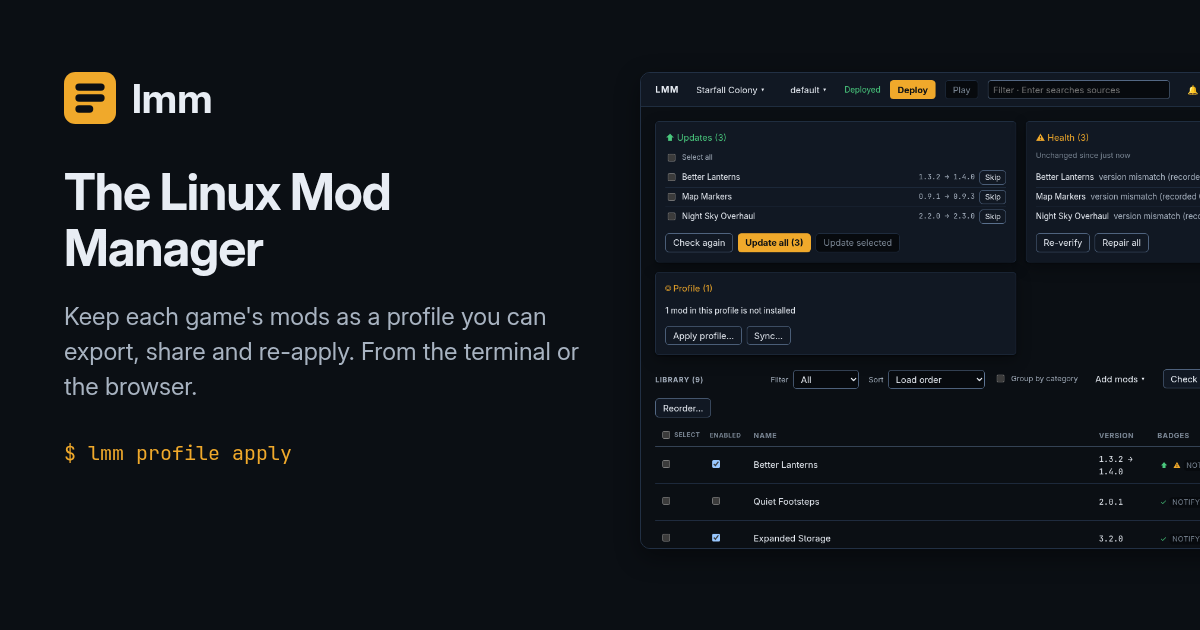
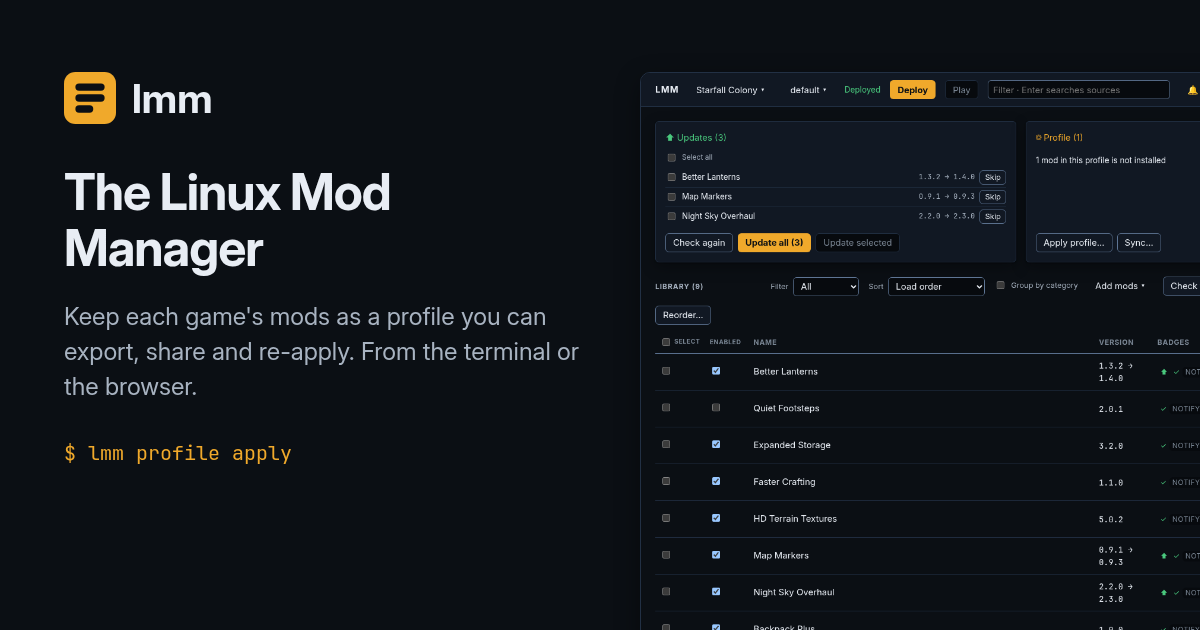
docs(site): tighten landing copy and refresh demo screenshots (#625)

diff --git a/docs/site/index.html b/docs/site/index.html
@@ -52,56 +52,40 @@
 
 <section class="hero" aria-labelledby="hero-title">
   <div class="wrap">
-    <p class="eyebrow">lmm, the Linux Mod Manager</p>
-    <h1 id="hero-title">Mod your games on Linux from a profile you can share and re-apply</h1>
-    <p class="lede">lmm is a native Linux mod manager. It downloads mods from NexusMods, CurseForge, Thunderstore and the Steam Workshop, puts them in the game folder, and records every file it adds. Because it knows exactly what it added, it can update a mod, roll it back or take it out again without touching the game's own files.</p>
-    <p class="lede">Use it from the terminal, or from the web UI it opens in your browser. Both run the same engine.</p>
+    <p class="eyebrow">lmm · Linux Mod Manager</p>
+    <h1 id="hero-title">Your mod setup, ready to re-apply.</h1>
+    <p class="lede">Manage your Linux game mods from the terminal or a full local web UI. Keep your mods, versions and load order in a profile you can save and apply again.</p>
     <div class="actions">
       <a class="button button--primary" href="#install">Install lmm</a>
       <a class="button" href="guide/">Read the guide</a>
-      <a class="button" href="https://github.com/DonovanMods/linux-mod-manager">View on GitHub</a>
     </div>
     <p class="fineprint">Free and open source under the MIT license. One binary for x86-64 and ARM64 Linux.</p>
     <figure class="shot shot--hero">
       <picture>
         <source srcset="images/mission-control-dark.png" media="(prefers-color-scheme: dark)">
-        <img src="images/mission-control-light.png" width="1280" height="800" alt="lmm's web UI on its Mission Control screen. Cards at the top list three mod updates, three health findings and a Profile card offering Apply profile; below them is the library of nine installed mods with their versions and load order." fetchpriority="high">
+        <img src="images/mission-control-light.png" width="1280" height="1048" alt="lmm's Mission Control screen with three available mod updates and one profile mod still to install. The library lists nine installed mods with healthy checkmarks, versions and load order." fetchpriority="high">
       </picture>
       <figcaption>Mission Control, the web UI's home screen. The game and mods are demo data.</figcaption>
     </figure>
   </div>
 </section>
 
-<section class="band" aria-labelledby="who-title">
-  <div class="wrap prose">
-    <h2 id="who-title">For Linux players who mod their games</h2>
-    <p>If you mod games on Linux today, you probably run a Windows mod manager under Wine, or unzip archives into the game folder and try to remember what went where. Then updating a mod, removing one, or setting up the same mods on a second computer is work you do by hand.</p>
-    <p>lmm runs natively on Linux. It finds your Steam games, and Battle.net games installed under Wine or Proton. For the games it already knows, such as Skyrim, Baldur's Gate 3 and Valheim, it fills in where the mods go. If you've modded a game before, lmm can scan its mod folder and take over the mods already there.</p>
-  </div>
-</section>
-
 <section id="profiles" class="feature" aria-labelledby="profiles-title">
   <div class="wrap feature__grid">
     <div class="prose">
-      <h2 id="profiles-title">Your mod setup is a file, and lmm makes the game match it</h2>
-      <p>A profile lists the mods a game should be running: which ones, which versions and in what order they load. <code>lmm profile apply</code> changes the game to match it. It installs what's missing, takes out what the profile no longer lists, and moves each mod to the version the profile names, even when that is an older one.</p>
-      <p>Lock a mod to one version and the lock holds through apply, deploy, update and rollback. Export a profile to a small YAML file to keep as a backup or send to a friend. Importing it on another computer downloads and installs the same mods at the same versions.</p>
-      <p>A game can have several profiles, such as a co-op setup that matches your friends' mods next to your solo game. Switching between them leaves the mods both use in place, and nothing lmm already has is downloaded again.</p>
-<pre class="code" tabindex="0"><code><span class="prompt">$</span> lmm profile export coop &gt; coop.yaml
-<span class="prompt">$</span> lmm profile import coop.yaml
-<span class="prompt">$</span> lmm profile apply --dry-run
-Apply plan for profile "default" (dry run)
-
-Will install 2 mod(s):
-  ↓ mod-workshop:BetterLanterns v1.4.0
-  ↓ mod-workshop:WildlifeAI v0.7.0</code></pre>
+      <h2 id="profiles-title">Save a setup. Make the game match it.</h2>
+      <p>A profile records your mods, versions and load order. Applying it installs what's missing, removes mods it no longer lists, and changes versions in either direction. Version locks stay enforced.</p>
+      <p>Keep separate profiles for solo and co-op play. Switch between them using the mod files lmm already has in its cache.</p>
+      <p>Export a profile as YAML to save or share the setup. Another computer can fetch the same versions when its sources are configured and those files are still available. Keep local mod archives and custom-source configuration separately: the profile doesn't include them. <a href="guide/profiles.html">How profiles work</a>.</p>
+<pre class="code" tabindex="0"><code><span class="prompt">$</span> lmm profile export default &gt; setup.yaml
+<span class="prompt">$</span> lmm profile apply --dry-run</code></pre>
     </div>
     <figure class="shot">
       <picture>
         <source srcset="images/profile-apply-dark.png" media="(prefers-color-scheme: dark)">
-        <img src="images/profile-apply-light.png" width="1280" height="800" alt="The Apply profile preview in the web UI. It reads &quot;Making default match what it lists&quot; and lists two installs: Better Lanterns 1.4.0, replacing 1.3.2, and Smarter Wildlife 0.7.0, with Cancel and Apply profile buttons.">
+        <img src="images/profile-apply-light.png" width="536" height="316" alt="The Apply profile preview in the web UI. It reads &quot;Making default match what it lists&quot; and lists two installs: Better Lanterns 1.4.0, replacing 1.3.2, and Smarter Wildlife 0.7.0, with Cancel and Apply profile buttons.">
       </picture>
-      <figcaption>The same apply in the web UI. Nothing changes until you confirm the preview.</figcaption>
+      <figcaption>Review a profile's changes before applying them. Shown with demo mods.</figcaption>
     </figure>
   </div>
 </section>
@@ -110,14 +94,13 @@ Will install 2 mod(s):
   <div class="wrap feature__grid feature__grid--flip">
     <div class="prose">
       <h2 id="frontends-title">A terminal and a browser, one engine</h2>
-      <p>Run <code>lmm serve</code> and your browser opens on lmm's web UI: your library, search, updates, health checks, file conflicts, profiles and snapshots.</p>
-      <p>Everything the web UI does is also an <code>lmm</code> command, because both run the same code in the same binary, on the same database and profiles. Use the browser day to day. Use the terminal for scripts, or over SSH on another machine.</p>
-      <p>By default the web UI listens on <code>127.0.0.1</code>, so nothing else on your network can reach it. It can also run in the background as a systemd user service.</p>
+      <p>Browse your library, find mods and manage updates in the web UI. Use the CLI for scripts or over SSH. Both use the same engine, database and profiles.</p>
+      <p>Run <code>lmm serve</code> to open the UI in your browser. It listens on your computer's loopback address by default, and can run as a systemd user service. <a href="guide/background.html">Run lmm in the background</a>.</p>
     </div>
     <figure class="shot">
       <picture>
         <source srcset="images/library-dark.png" media="(prefers-color-scheme: dark)">
-        <img src="images/library-light.png" width="1280" height="800" alt="The web UI's library grouped by category: Audio, Crafting, Interface, Lighting and Storage, each listing its mods with version, update badges, load order and the date each was updated. Two mods show an Update button.">
+        <img src="images/library-light.png" width="1280" height="960" alt="The web UI's nine-mod library grouped into Audio, Crafting, Interface, Lighting, Storage and Visuals. Rows show versions, healthy checkmarks and load order; three mods have Update buttons.">
       </picture>
       <figcaption>The library, grouped by category. Grouping never changes the load order.</figcaption>
     </figure>
@@ -126,15 +109,16 @@ Will install 2 mod(s):
 
 <section class="band" aria-labelledby="sources-title">
   <div class="wrap">
-    <h2 id="sources-title">Mods from the sites you already use, and from your own</h2>
+    <h2 id="sources-title">Bring your games and your mod sources</h2>
+    <p class="section-lede prose">lmm finds Steam games and Battle.net installations under Wine or Proton, and fills in mod paths for known games. Already modded a game? Scan its mod folder to bring existing mods into lmm. <a href="guide/first-mods.html">Get started with your games</a>.</p>
     <ul class="cards">
       <li class="card">
         <h3>NexusMods and CurseForge</h3>
-        <p>Sign in with an API key from your account page. lmm stores it encrypted on your computer and only ever sends it to that site.</p>
+        <p>Connect with an API key, stored encrypted on your computer. Free NexusMods accounts can import manually downloaded archives.</p>
       </li>
       <li class="card">
         <h3>Thunderstore</h3>
-        <p>Needs no key. For Unity games that load mods through BepInEx, such as Valheim and Lethal Company, lmm puts each plugin where the loader looks for it, whichever site it came from.</p>
+        <p>Browse without an API key. For BepInEx games such as Valheim and Lethal Company, lmm puts plugins where the loader expects them.</p>
       </li>
       <li class="card">
         <h3>Steam Workshop</h3>
@@ -158,56 +142,50 @@ Will install 2 mod(s):
 
 <section class="feature" aria-labelledby="safety-title">
   <div class="wrap prose prose--wide">
-    <h2 id="safety-title">See every change first, and undo it later</h2>
+    <h2 id="safety-title">Preview changes and keep a way back</h2>
     <dl class="facts">
       <div>
-        <dt>A preview before anything changes</dt>
-        <dd>The web UI shows the plan and waits for you to confirm it. In the terminal, commands that change things take <code>--dry-run</code>.</dd>
+        <dt>Review installs, updates and profile changes</dt>
+        <dd>The web UI shows a plan before installing, updating, deploying or applying a profile. In the CLI, <code>update</code>, <code>deploy</code> and <code>profile apply</code> support <code>--dry-run</code>. Enabling or disabling a mod applies immediately.</dd>
       </div>
       <div>
         <dt>Back to an unmodded game</dt>
-        <dd><code>lmm purge</code> puts the game folder back the way it was before lmm touched it. When a mod replaced one of the game's own files, lmm kept the original and puts it back.</dd>
+        <dd><code>lmm purge</code> removes deployed mods and restores originals backed up when lmm replaced game files.</dd>
       </div>
       <div>
         <dt>Snapshots and rollback</dt>
-        <dd>Save a snapshot to bring the game back to later. <code>lmm update rollback</code> steps a mod back to its previous version.</dd>
+        <dd>Save a snapshot of your mod setup before experimenting. <code>lmm update rollback</code> can return a mod to its previous version.</dd>
       </div>
       <div>
         <dt>Verify what's on disk</dt>
-        <dd><code>lmm verify</code> checks downloaded files against their recorded checksums, and the game folder against what the profile provides. <code>--fix</code> only ever removes files lmm itself put there.</dd>
-      </div>
-      <div>
-        <dt>File conflicts</dt>
-        <dd><code>lmm conflicts</code> lists every file two mods both provide, which mods they are, and which one wins.</dd>
+        <dd><code>lmm verify</code> checks cached files and the deployed mod files. <code>lmm conflicts</code> shows which mods provide the same file and which one wins.</dd>
       </div>
     </dl>
+    <p class="section-followup"><a href="guide/troubleshooting.html">Previews, snapshots and recovery in the guide</a></p>
   </div>
 </section>
 
-<section class="feature feature--alt" aria-labelledby="json-title">
-  <div class="wrap prose prose--wide">
-    <h2 id="json-title">Add <code>--json</code> for scripts</h2>
-    <p>Add <code>--json</code> and a command prints exactly one JSON document on standard output. Warnings go inside the document, so piping it to <code>jq</code> is always safe. The web UI's <code>/api/v1</code> returns the same documents.</p>
-<pre class="code" tabindex="0"><code><span class="prompt">$</span> lmm update --json | jq -r '.updates[] | "\(.installed_mod.name): \(.installed_mod.version) -&gt; \(.new_version)"'
-Better Lanterns: 1.3.2 -&gt; 1.4.0
-Map Markers: 0.9.1 -&gt; 0.9.3
-Night Sky Overhaul: 2.2.0 -&gt; 2.3.0</code></pre>
-  </div>
-</section>
-
-<section class="feature" aria-labelledby="updates-title">
-  <div class="wrap prose prose--wide">
-    <h2 id="updates-title">lmm keeps itself up to date, and checks the signature first</h2>
-    <p>Once a day lmm asks GitHub whether a new release is out. If you installed it from the release download or with <code>go install</code>, it installs the new version itself. First it checks the release's ed25519 signature against the keys built into lmm, then the download against its checksum. Anything that doesn't match is refused. Set <code>auto_update: false</code>, or use Setup → Updates in the web UI, to turn this off.</p>
-    <p>An lmm your package manager installed is never replaced by lmm. It tells you a new version is out and leaves the upgrade to your package manager.</p>
+<section class="band" aria-labelledby="everyday-title">
+  <div class="wrap">
+    <h2 id="everyday-title">Fits the way you use Linux</h2>
+    <div class="details-grid">
+      <div class="prose">
+        <h3>Ready for scripts</h3>
+        <p>Add <code>--json</code> for structured command output, with warnings inside the document. Use it with <code>jq</code> or your own tools. <a href="https://github.com/DonovanMods/linux-mod-manager#json-output">JSON output reference</a>.</p>
+<pre class="code" tabindex="0"><code><span class="prompt">$</span> lmm update --json | jq '.updates'</code></pre>
+      </div>
+      <div class="prose">
+        <h3>Verified self-updates</h3>
+        <p>Release-download and <code>go install</code> installations can update automatically after signature and checksum verification. You can turn this off. Package installations stay under your package manager's control. <a href="guide/updates.html">How updates work</a>.</p>
+      </div>
+    </div>
   </div>
 </section>
 
 <section class="band" aria-labelledby="limits-title">
   <div class="wrap prose prose--wide">
-    <h2 id="limits-title">What lmm doesn't do yet</h2>
-    <p>lmm installs, deploys, updates, locks and reproduces Skyrim and Fallout mods. It can't yet walk you through a FOMOD installer's options, sort plugins automatically the way LOOT does, or import a Nexus Collection. All three are tracked as work (<a href="https://github.com/DonovanMods/linux-mod-manager/issues/354">#354</a>, <a href="https://github.com/DonovanMods/linux-mod-manager/issues/355">#355</a>, <a href="https://github.com/DonovanMods/linux-mod-manager/issues/597">#597</a>). If your setup depends on them, <a href="https://github.com/limo-app/limo">Limo</a> or Mosaic serves it better for now. A profile does record load order, and you can change it in the terminal or the web UI.</p>
-    <p>The web UI is built for a desktop browser. On a phone, use the terminal over SSH.</p>
+    <h2 id="limits-title">Check that lmm fits your setup</h2>
+    <p>FOMOD installer options, automatic LOOT-style plugin sorting and Nexus Collections aren't supported yet. You can set load order yourself. The web UI is designed for desktop browsers. <a href="guide/faq.html">Check the compatibility FAQ</a>.</p>
   </div>
 </section>
 
@@ -249,7 +227,7 @@ mkdir -p ~/.local/bin &amp;&amp; mv lmm ~/.local/bin/</code></pre>
       </article>
     </div>
     <div class="next">
-      <p>Then run <code>lmm serve</code> and follow the setup in your browser, or <code>lmm init</code> for the same steps in the terminal. The guide walks you through it. If you change your mind, <code>lmm purge</code> puts the game folder back the way it was.</p>
+      <p>Then run <code>lmm serve</code> and follow the setup in your browser, or <code>lmm init</code> in the terminal. The guide walks you through adding a game and installing your first mods.</p>
       <div class="actions">
         <a class="button button--primary" href="guide/first-mods.html">Set up your first mods</a>
         <a class="button" href="https://github.com/DonovanMods/linux-mod-manager/releases">All releases</a>

diff --git a/docs/site/site.css b/docs/site/site.css
@@ -400,6 +400,17 @@ h2 code {
   align-items: start;
 }
 
+.details-grid {
+  display: grid;
+  grid-template-columns: repeat(auto-fit, minmax(min(100%, 24rem), 1fr));
+  gap: 2rem 3rem;
+  margin-top: 1.5rem;
+}
+
+.section-followup {
+  margin: 1.5rem 0 0;
+}
+
 @media (min-width: 64rem) {
   .feature__grid {
     grid-template-columns: minmax(0, 5fr) minmax(0, 6fr);
